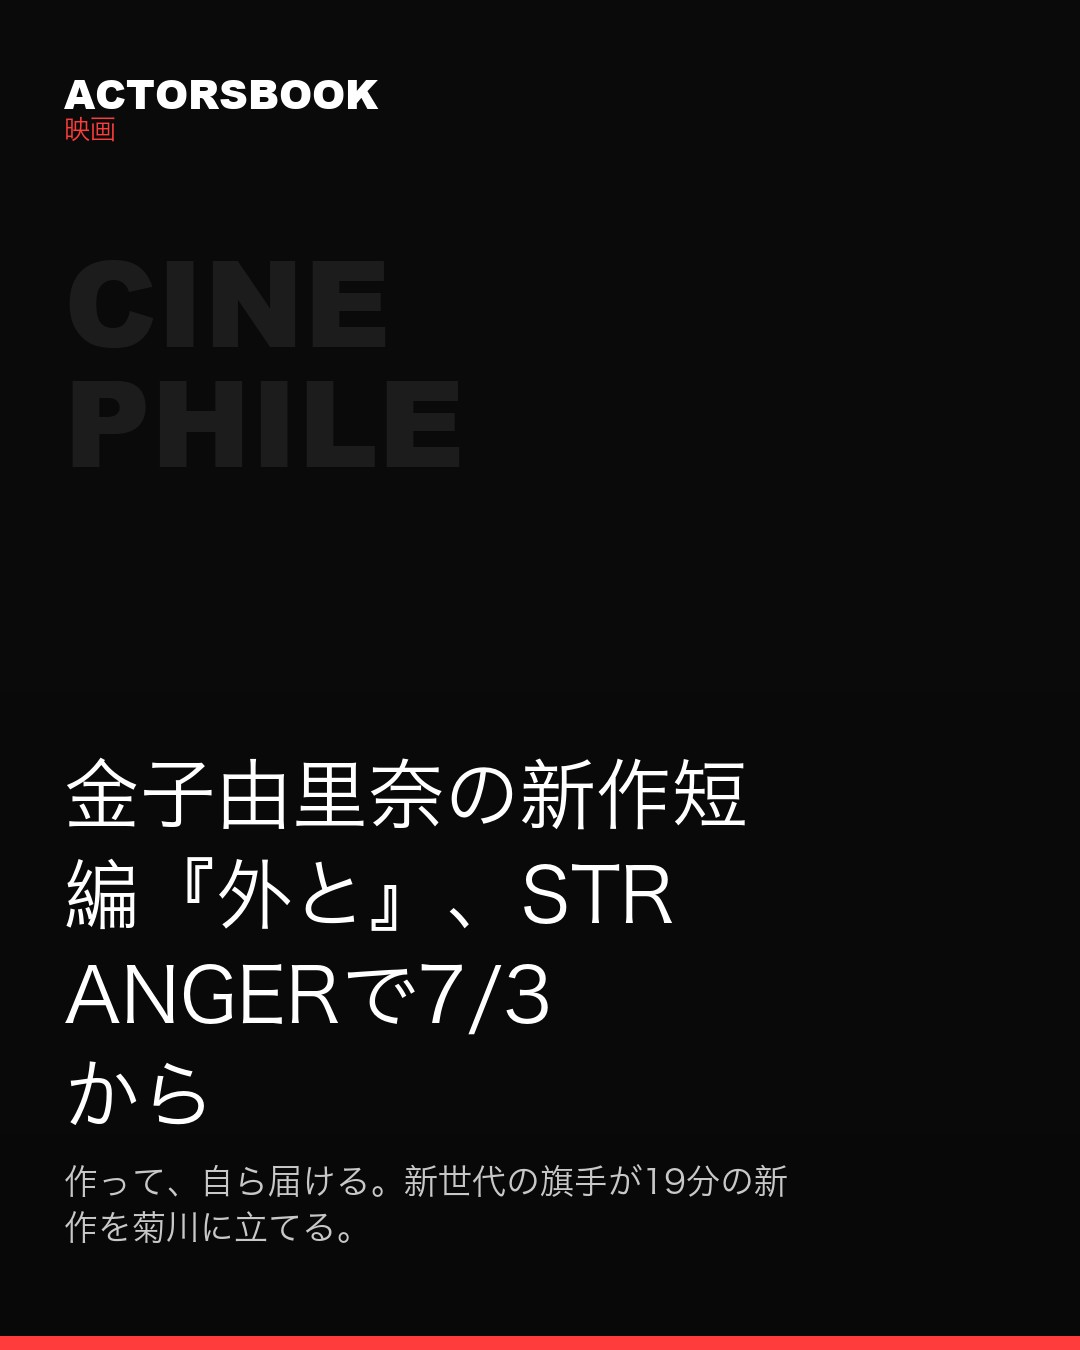
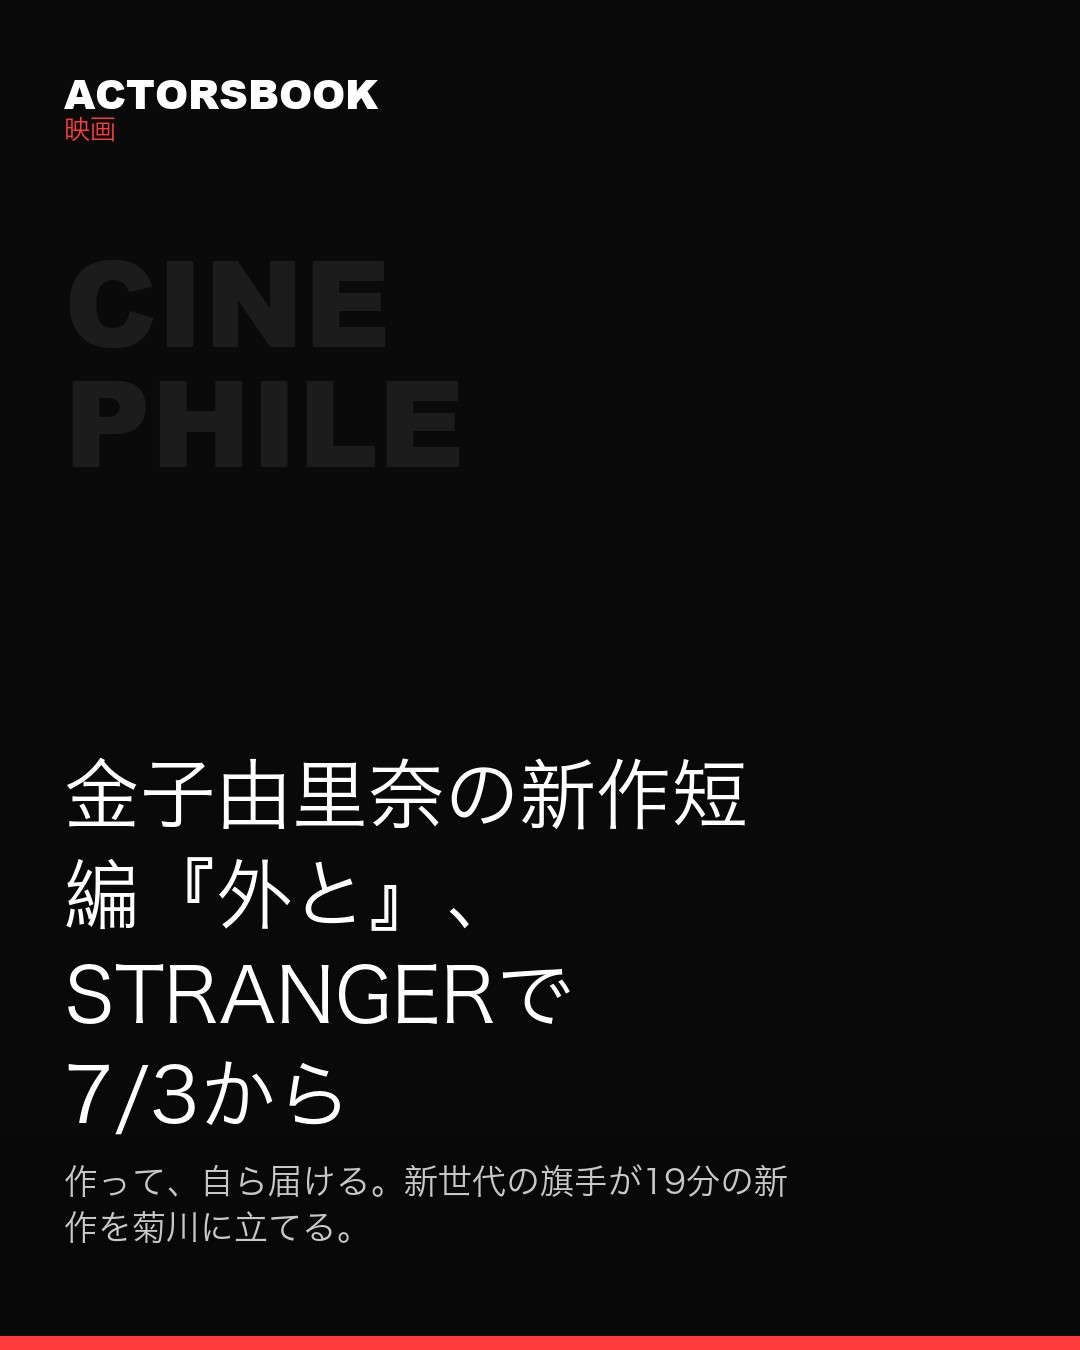
fix: サムネ見出しの英字を途中で折らない (STRANGER等)
_wrap_jp を英数トークン単位の折り返しに変更。既存サムネも再生成。

Changed region(s): [[0.0611, 0.7156, 0.5194, 0.84], [0.4889, 0.6222, 0.6417, 0.6844]]

diff --git a/scripts/pipeline.py b/scripts/pipeline.py
@@ -278,14 +278,32 @@ def _font(path: str, size: int, index: int = 0):
 
 
 def _wrap_jp(text: str, max_chars: int) -> list[str]:
+    """日本語は1文字ずつ折る。ただし英数字の連なり(STRANGER, 7/3 等)は
+    途中で分断せず1トークンとして扱う。"""
+    # トークン化: 英数記号の語 / 空白 / それ以外(CJK等)は1文字
+    tokens = re.findall(r"[A-Za-z0-9._/&+\-]+|\s+|[^A-Za-z0-9._/&+\-\s]", text)
     lines, cur = [], ""
-    for ch in text:
-        cur += ch
-        if len(cur) >= max_chars:
-            lines.append(cur)
+    for tok in tokens:
+        if tok.isspace():
+            if cur:
+                cur += tok
+            continue
+        # 長すぎる英単語だけは強制分割(1行に収まらない場合の保険)
+        if len(tok) > max_chars:
+            if cur:
+                lines.append(cur.rstrip())
+                cur = ""
+            while len(tok) > max_chars:
+                lines.append(tok[:max_chars])
+                tok = tok[max_chars:]
+            cur = tok
+            continue
+        if len(cur) + len(tok) > max_chars and cur:
+            lines.append(cur.rstrip())
             cur = ""
-    if cur:
-        lines.append(cur)
+        cur += tok
+    if cur.strip():
+        lines.append(cur.rstrip())
     return lines
 
 
